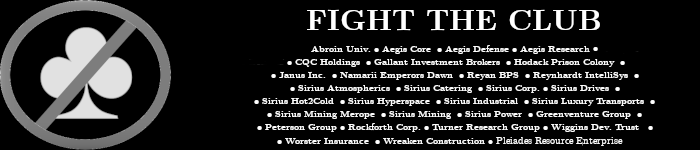
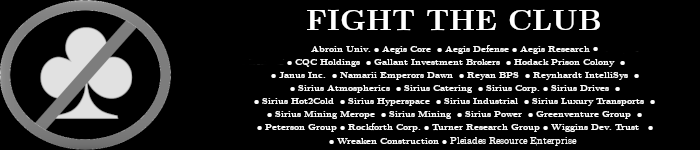
removed Worster Insurance

Changed region(s): [[0.39, 0.9067, 0.9, 0.96]]

diff --git a/craid/eddb/util/GarudsHistoricalData.py b/craid/eddb/util/GarudsHistoricalData.py
@@ -120,12 +120,15 @@ if __name__ == '__main__':
     # 'Bill Turner'
     # "Emperor's Dawn"
     # 'Aegis Defense',
-    allFacs = ['Sirius Drives', 'Worster Insurance', 'Abroin Universal PLC',
+    allFacs = ['Sirius Drives',
+               #'Worster Insurance',
+               'Abroin Universal PLC',
                'Hodack Prison Colony', 'Turner Research Group',
                'Sirius Luxury Transports', 'Aegis Core',
                'Aegis Research', 'Sirius Mining Merope',
                'Wiggins Development Trust', 'CQC Holdings', 'Sirius Hot2Cold',
-               "Benton's Gang", 'Janus Incorporated', 'The Rockforth Corporation',
+               #"Benton's Gang",
+               'Janus Incorporated', 'The Rockforth Corporation',
                'Sirius Mining', 'Sirius Atmospherics', 'Sirius Hyperspace',
                'Wreaken Construction', 'Gallant Investment Brokers',
                #'Bentonian Party',

diff --git a/craid/eddb/faction/FactionNameFilter.py b/craid/eddb/faction/FactionNameFilter.py
@@ -22,7 +22,8 @@ badGuys: Set[str] = {'Abroin Universal PLC', 'Aegis Core', 'Aegis Research',
                      'Sirius Mining', 'Sirius Power', 'The Greenventure Group',
                      'The Peterson Group', 'The Rockforth Corporation',
                      'Turner Research Group', 'Wiggins Development Trust',
-                     'Worster Insurance', 'Wreaken Construction', 'Aegis Defense', 'Pleiades Resource Enterprise'}
+                     #'Worster Insurance',
+                     'Wreaken Construction', 'Aegis Defense', 'Pleiades Resource Enterprise'}
 
 
 class FactionNameFilter(object):
